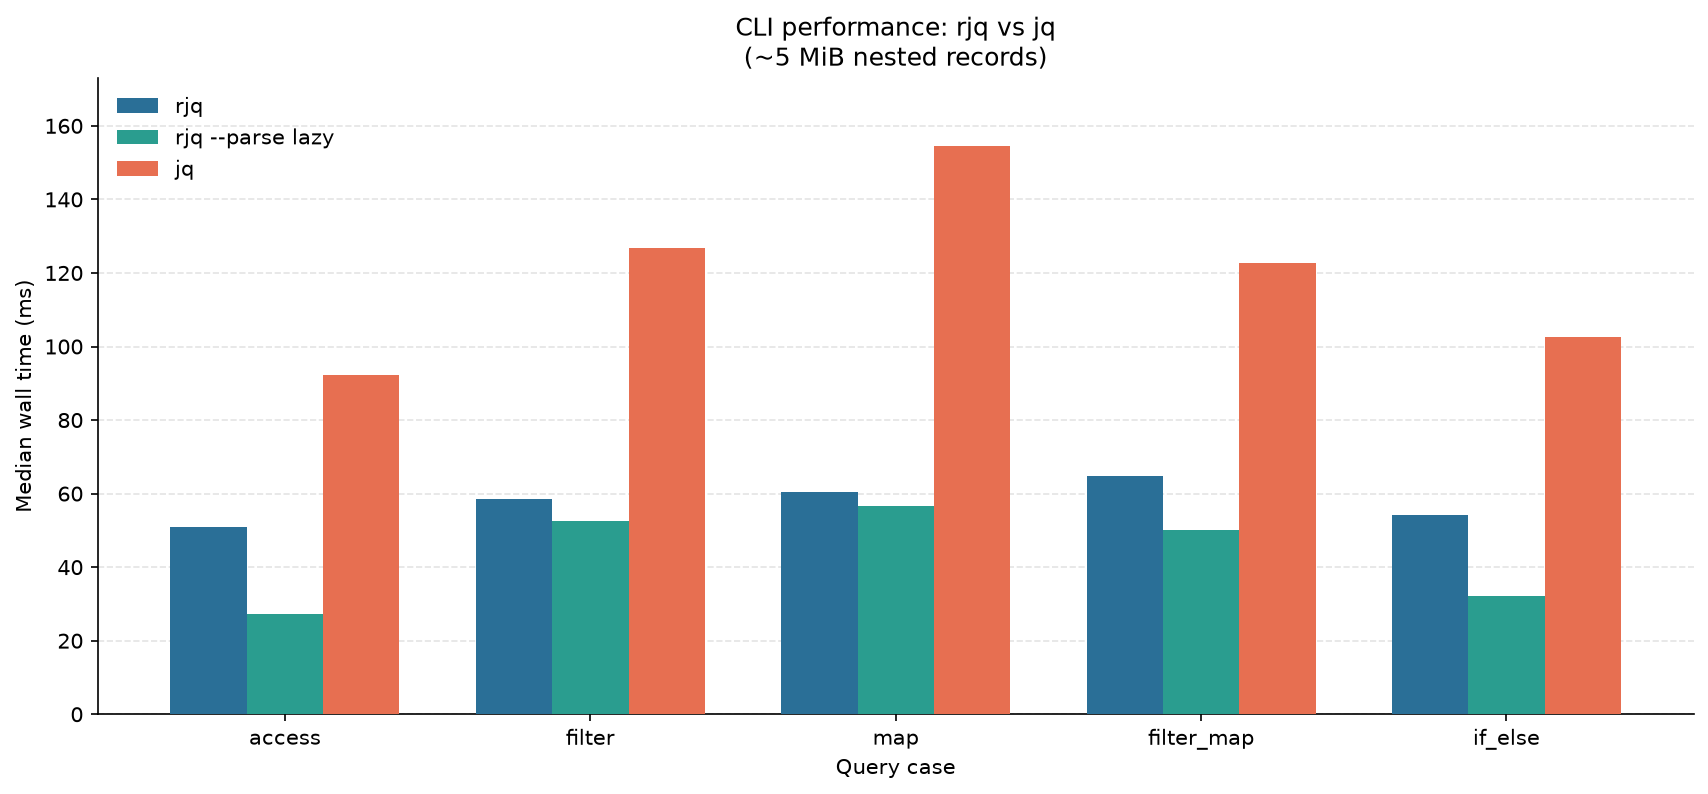
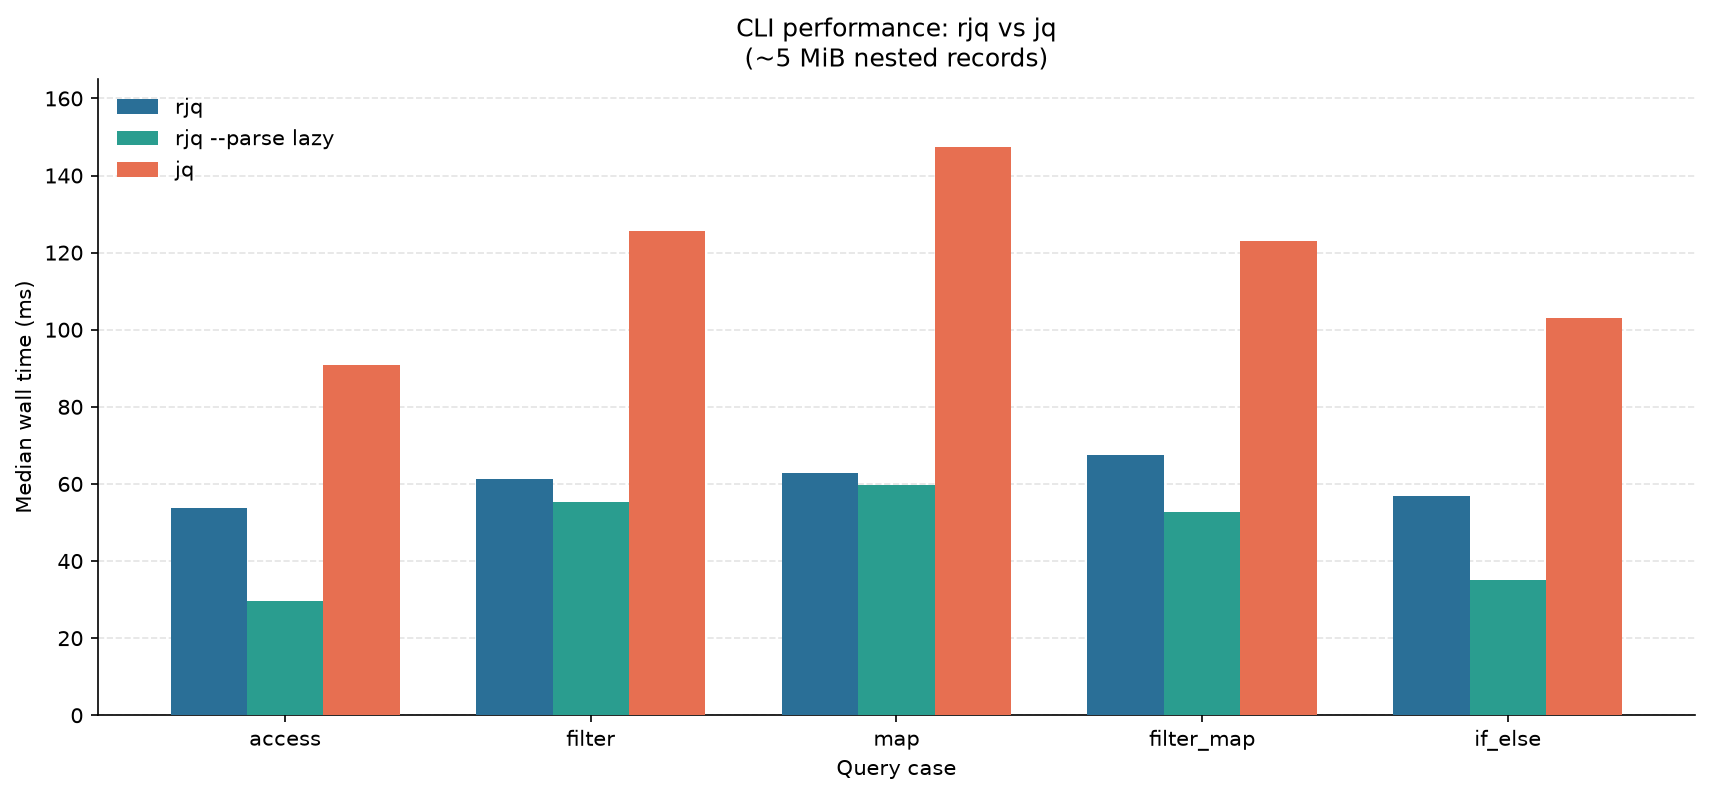
re-org source files

diff --git a/src/json/hook.rs b/src/json/hook.rs
@@ -1,6 +1,6 @@
 use std::borrow::Cow;
 
-use crate::json::{error::JsonError, number::JsonNumber, value::JsonObject, value::JsonValue};
+use crate::json::{error::JsonError, number::JsonNumber};
 
 /// A scalar the lexer/parser has already validated.
 ///
@@ -88,62 +88,5 @@ pub trait ParserHookable<'a> {
     /// When true, bytes after the root value are ignored (lazy CLI). Default false.
     fn accept_trailing_junk(&self) -> bool {
         false
-    }
-}
-
-/// Hook that materializes the crate's native [`JsonValue`] tree (eager).
-#[derive(Debug, Default)]
-pub struct JsonValueBuilder;
-
-impl<'a> ParserHookable<'a> for JsonValueBuilder {
-    type Value = JsonValue<'a>;
-    type Array = Vec<JsonValue<'a>>;
-    type Object = JsonObject<'a>;
-    type Error = JsonError;
-
-    fn on_atom(&mut self, atom: JsonAtom<'a>) -> Result<Self::Value, Self::Error> {
-        Ok(match atom {
-            JsonAtom::Null => JsonValue::null(),
-            JsonAtom::Bool(v) => JsonValue::boolean(v),
-            JsonAtom::Number(n) => JsonValue::Number(n),
-            JsonAtom::String(s) => JsonValue::string(s),
-        })
-    }
-
-    fn on_begin_array(&mut self) -> Result<Self::Array, Self::Error> {
-        Ok(Vec::new())
-    }
-
-    fn on_array_element(
-        &mut self,
-        array: &mut Self::Array,
-        value: Self::Value,
-    ) -> Result<(), Self::Error> {
-        array.push(value);
-        Ok(())
-    }
-
-    fn on_end_array(&mut self, array: Self::Array) -> Result<Self::Value, Self::Error> {
-        Ok(JsonValue::array(array))
-    }
-
-    fn on_begin_object(&mut self) -> Result<Self::Object, Self::Error> {
-        Ok(JsonObject::new())
-    }
-
-    fn on_object_entry(
-        &mut self,
-        object: &mut Self::Object,
-        key: Cow<'a, str>,
-        value: Self::Value,
-    ) -> Result<(), Self::Error> {
-        // Hot path: append without hashing or de-duplication. Duplicate keys are
-        // resolved at lookup time (last value wins), matching dict / orjson.
-        object.push(key, value);
-        Ok(())
-    }
-
-    fn on_end_object(&mut self, object: Self::Object) -> Result<Self::Value, Self::Error> {
-        Ok(JsonValue::Object(object))
     }
 }

diff --git a/src/json/builder/eager.rs b/src/json/builder/eager.rs
@@ -1,0 +1,65 @@
+use crate::{
+    json::hook::{JsonAtom, ParserHookable},
+    json::{
+        error::JsonError,
+        value::{JsonObject, JsonValue},
+    },
+};
+use std::borrow::Cow;
+
+/// Hook that materializes the crate's native [`JsonValue`] tree (eager).
+#[derive(Debug, Default)]
+pub struct JsonValueBuilder;
+
+impl<'a> ParserHookable<'a> for JsonValueBuilder {
+    type Value = JsonValue<'a>;
+    type Array = Vec<JsonValue<'a>>;
+    type Object = JsonObject<'a>;
+    type Error = JsonError;
+
+    fn on_atom(&mut self, atom: JsonAtom<'a>) -> Result<Self::Value, Self::Error> {
+        Ok(match atom {
+            JsonAtom::Null => JsonValue::null(),
+            JsonAtom::Bool(v) => JsonValue::boolean(v),
+            JsonAtom::Number(n) => JsonValue::Number(n),
+            JsonAtom::String(s) => JsonValue::string(s),
+        })
+    }
+
+    fn on_begin_array(&mut self) -> Result<Self::Array, Self::Error> {
+        Ok(Vec::new())
+    }
+
+    fn on_array_element(
+        &mut self,
+        array: &mut Self::Array,
+        value: Self::Value,
+    ) -> Result<(), Self::Error> {
+        array.push(value);
+        Ok(())
+    }
+
+    fn on_end_array(&mut self, array: Self::Array) -> Result<Self::Value, Self::Error> {
+        Ok(JsonValue::array(array))
+    }
+
+    fn on_begin_object(&mut self) -> Result<Self::Object, Self::Error> {
+        Ok(JsonObject::new())
+    }
+
+    fn on_object_entry(
+        &mut self,
+        object: &mut Self::Object,
+        key: Cow<'a, str>,
+        value: Self::Value,
+    ) -> Result<(), Self::Error> {
+        // Hot path: append without hashing or de-duplication. Duplicate keys are
+        // resolved at lookup time (last value wins), matching dict / orjson.
+        object.push(key, value);
+        Ok(())
+    }
+
+    fn on_end_object(&mut self, object: Self::Object) -> Result<Self::Value, Self::Error> {
+        Ok(JsonValue::Object(object))
+    }
+}

diff --git a/src/jql/optimizer.rs b/src/jql/optimizer.rs
@@ -1,24 +1,5 @@
 //! Peephole AST optimizer: rewrite bottom-up until a fixed point.
 //!
-//! | Kind | Before | After |
-//! |------|--------|-------|
-//! | Identity pipe | `. \| x` / `x \| .` | `x` |
-//! | Access fuse | `.a \| .b` | `.a.b` |
-//! | Access fuse (chain) | `.a \| (.b \| rest)` | `.a.b \| rest` |
-//! | Filter fuse | `filter(p) \| filter(q)` | `filter(p && q)` |
-//! | Filter fuse (chain) | `filter(p) \| (filter(q) \| rest)` | `filter(p && q) \| rest` |
-//! | Map fuse | `map(f) \| map(g)` | `map(f \| g)` |
-//! | Map fuse (chain) | `map(f) \| (map(g) \| rest)` | `map(f \| g) \| rest` |
-//! | Numeric fold | `1 + 2 * 3` | `7` |
-//! | Comparison fold | `1 < 2` / `"a" == "a"` | `true` / `true` |
-//! | And absorb | `true && x` / `x && true` | `x` |
-//! | And short-circuit | `false && x` | `false` |
-//! | Or absorb | `false \|\| x` / `x \|\| false` | `x` |
-//! | Or short-circuit | `true \|\| x` | `true` |
-//! | If const-true | `if true then a else b end` | `a` |
-//! | If const-false | `if false then a else b end` | `b` |
-//! | If dead arm | `if false then a elif c then d else e end` | `if c then d else e end` |
-//!
 //! Rules apply through right-associative pipe chains. Division/mod by zero
 //! and non-literal operands are left unchanged.
 

diff --git a/src/json/parser.rs b/src/json/parser.rs
@@ -4,10 +4,11 @@ use crate::Location;
 use crate::Span;
 use crate::json::{
     error::{ExpectedSyntax, FoundSyntax, JsonError, JsonErrorKind},
-    hook::{JsonAtom, JsonValueBuilder, ParseDecision, ParserHookable},
+    hook::{JsonAtom, ParseDecision, ParserHookable},
     lexer::Lexer,
     token::{JsonLexeme, JsonToken, JsonTokenKind},
     value::JsonValue,
+    builder::eager::JsonValueBuilder,
 };
 
 pub struct JsonParser<'a> {

diff --git a/src/jql/mod.rs b/src/jql/mod.rs
@@ -3,11 +3,7 @@ use crate::{
         ast::JqlAstNode, engine::Engine, error::JqlError, lexer::JqlLexer, need::required_input,
         parser::JqlParser, proxy::Proxy,
     },
-    json::{
-        lazy::LazyJsonValueBuilder,
-        parser::JsonParser,
-        value::JsonValue,
-    },
+    json::{builder::lazy::LazyJsonValueBuilder, parser::JsonParser, value::JsonValue},
 };
 
 pub(crate) mod ast;

diff --git a/src/jql/need.rs b/src/jql/need.rs
@@ -1,7 +1,7 @@
 //! Derive a JSON [`Need`](crate::json::lazy::Need) from a JQL AST (expression first).
 
 use crate::jql::ast::{AccessStep, ArrayIndex, JqlAstNode};
-use crate::json::lazy::{Need, merge_need};
+use crate::json::builder::lazy::{Need, merge_need};
 
 /// What shape of *its input* does this expression need?
 pub fn required_input(ast: &JqlAstNode<'_>) -> Need {

diff --git a/src/json/mod.rs b/src/json/mod.rs
@@ -4,7 +4,7 @@ use crate::json::{error::JsonError, parser::JsonParser, value::JsonValue};
 
 pub mod error;
 pub mod hook;
-pub mod lazy;
+pub mod builder;
 pub(crate) mod escape;
 pub(crate) mod lexer;
 pub mod number;

diff --git a/src/json/builder/mod.rs b/src/json/builder/mod.rs
@@ -1,0 +1,2 @@
+pub(crate) mod lazy;
+pub(crate) mod eager;
